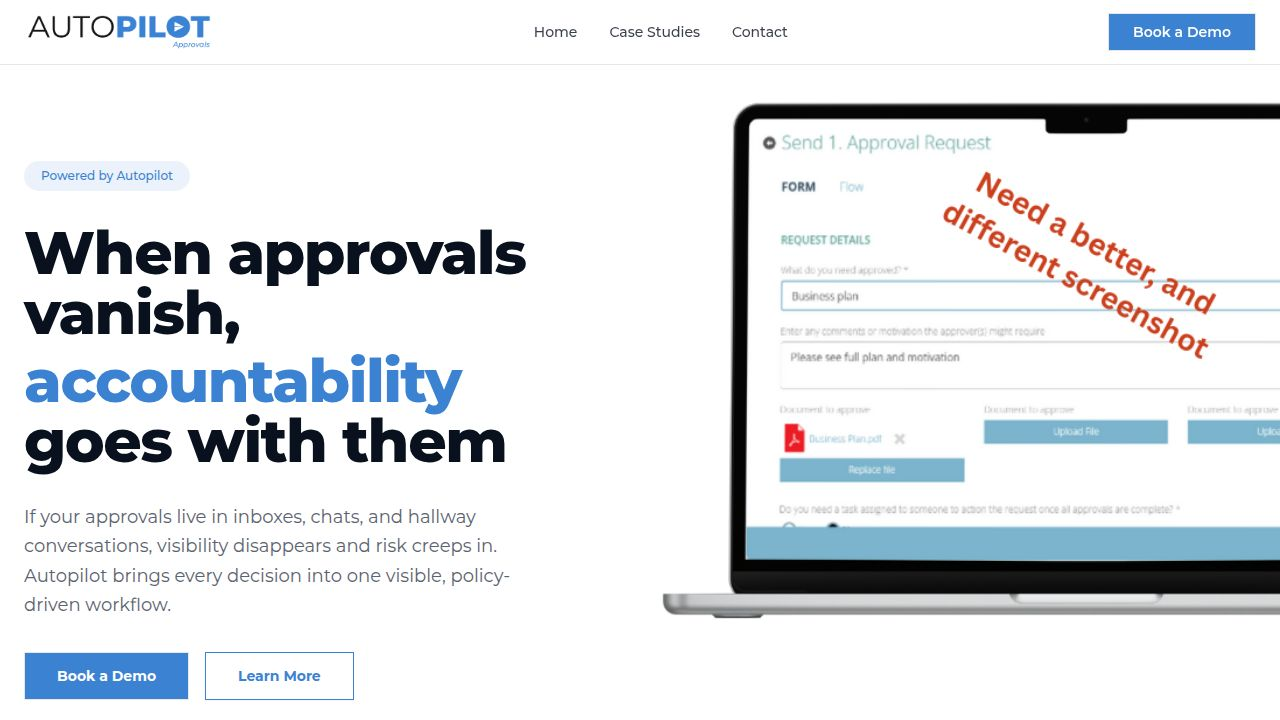
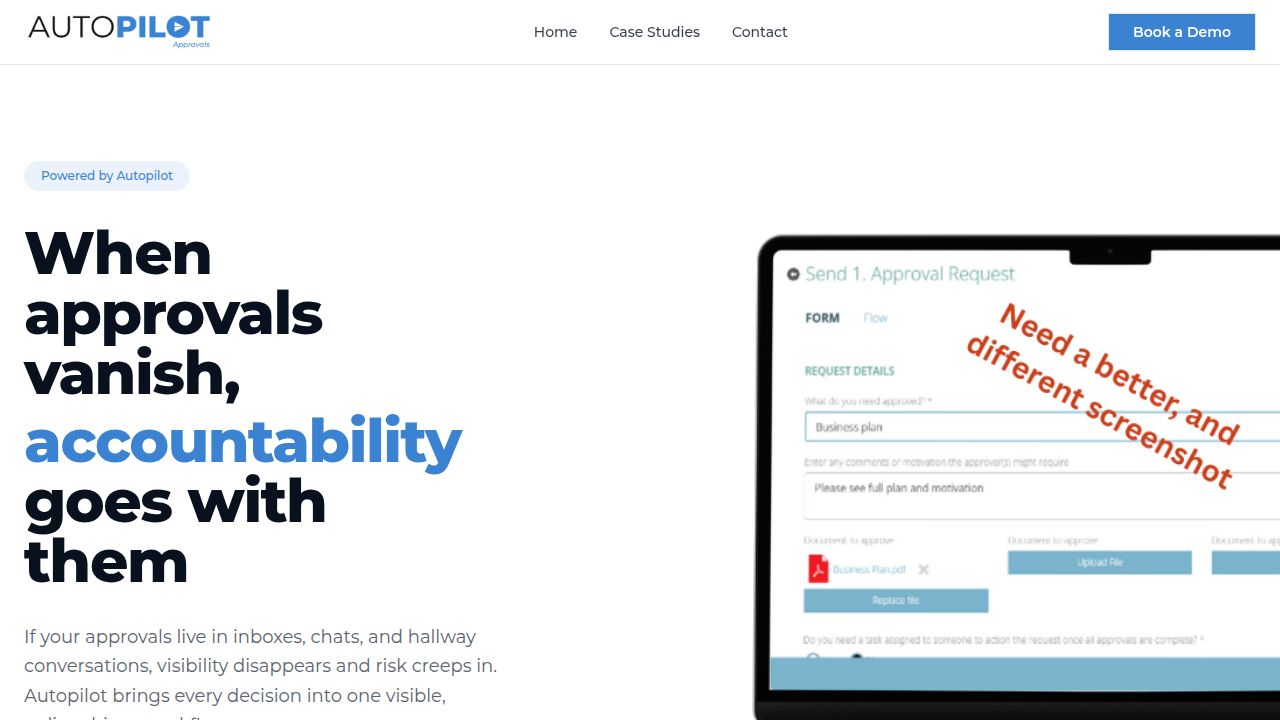
Restructure the home page hero section for a cleaner layout
Refactors the home page's hero section into a 12-column grid layout, placing the copy on the left and the image anchored to the right edge.

Replit-Commit-Author: Agent
Replit-Commit-Session-Id: 20ae4d9e-e5f1-497e-ac32-ccd2f229b987
Replit-Commit-Checkpoint-Type: full_checkpoint
Replit-Commit-Event-Id: a8bfafcd-20cd-4102-bdad-36131955aa6e
Replit-Commit-Screenshot-Url: https://storage.googleapis.com/screenshot-production-us-central1/56cf1ef1-47a4-459b-acb5-bde375fe4bb0/20ae4d9e-e5f1-497e-ac32-ccd2f229b987/DPZG9P9
Replit-Helium-Checkpoint-Created: true

Changed region(s): [[0.5, 0.1222, 1.0, 1.0], [0.0, 0.3056, 0.4062, 0.9778]]

diff --git a/client/src/pages/home.tsx b/client/src/pages/home.tsx
@@ -24,8 +24,9 @@ export default function Home() {
       {/* Hero Section */}
       <section className="pt-16 pb-20 md:pt-24 md:pb-32">
         <div className="container mx-auto px-4 md:px-6">
-          <div className="grid grid-cols-1 lg:grid-cols-2 gap-12 lg:gap-20 items-center">
-            <div className="space-y-8">
+          <div className="grid grid-cols-1 lg:grid-cols-12 gap-12 lg:gap-16 items-center">
+            {/* Left: Copy */}
+            <div className="lg:col-span-5 space-y-8">
               <Badge variant="secondary" className="px-4 py-1.5 rounded-full text-primary bg-primary/10 hover:bg-primary/20 font-medium">
                 Powered by Autopilot
               </Badge>
@@ -44,26 +45,29 @@ export default function Home() {
                 </Button>
               </div>
             </div>
-            <div className="relative lg:static">
-               {/* Decorative blob behind */}
-              <div className="absolute -inset-4 bg-gradient-to-tr from-primary/20 to-transparent blur-3xl rounded-full opacity-50 -z-10" />
-              
-              {/* Desktop: Image anchored to right edge of viewport */}
-              <div className="hidden lg:block absolute right-0 top-1/2 -translate-y-1/2 w-[55vw] max-w-[700px] h-[120%]">
-                 <img 
-                   src="/approvals-app.png" 
-                   alt="Autopilot Dashboard" 
-                   className="w-full h-full object-contain object-right"
-                 />
-              </div>
 
-              {/* Mobile: Standard stacking */}
-              <div className="lg:hidden w-full translate-x-[10%]">
-                <img 
-                  src="/approvals-app.png" 
-                  alt="Autopilot Dashboard" 
-                  className="w-full h-auto object-contain drop-shadow-2xl"
-                />
+            {/* Right: Image, flush to viewport edge */}
+            <div className="lg:col-span-7">
+              <div className="relative lg:min-h-[520px]">
+                <div className="absolute -inset-4 bg-gradient-to-tr from-primary/20 to-transparent blur-3xl rounded-full opacity-50 -z-10" />
+
+                {/* Desktop */}
+                <div className="hidden lg:block absolute right-[-48px] top-1/2 -translate-y-1/2 w-[55vw] max-w-[700px]">
+                  <img
+                    src="/approvals-app.png"
+                    alt="Autopilot Dashboard"
+                    className="w-full h-auto object-contain object-right"
+                  />
+                </div>
+
+                {/* Mobile */}
+                <div className="lg:hidden w-full">
+                  <img
+                    src="/approvals-app.png"
+                    alt="Autopilot Dashboard"
+                    className="w-full h-auto object-contain drop-shadow-2xl"
+                  />
+                </div>
               </div>
             </div>
           </div>
